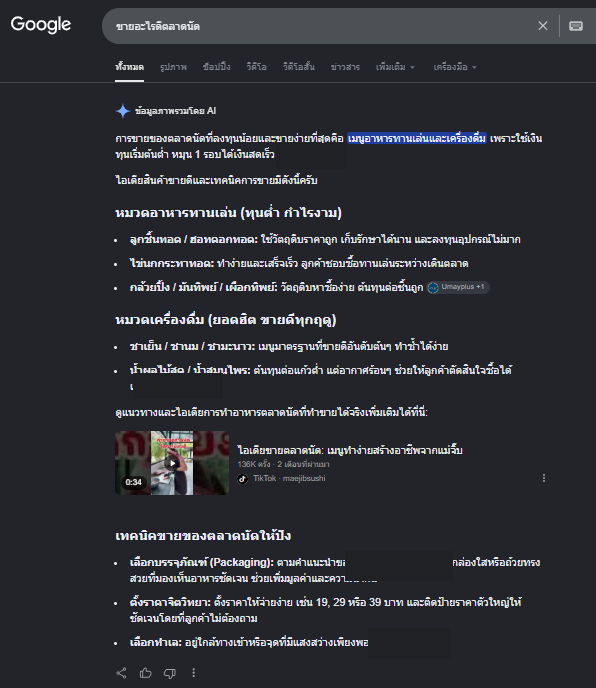
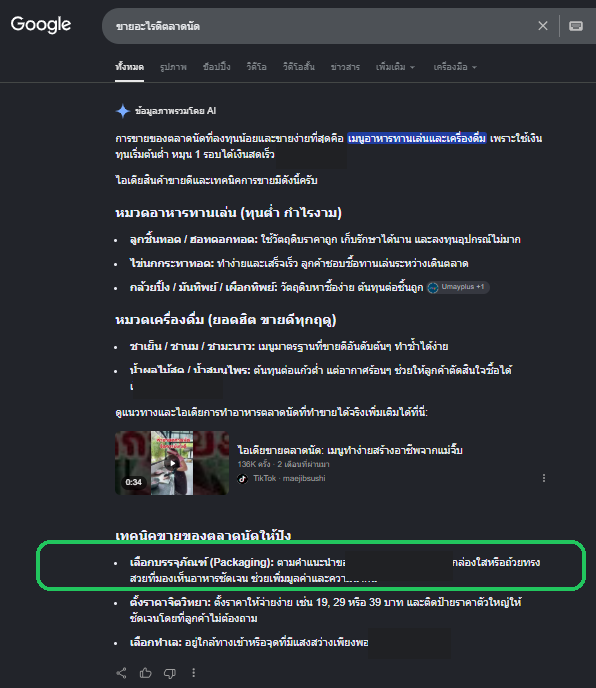
Restructure AI Overview post: real H3s, product-recommendation callout, LINE QR CTA
- Convert the 9-point list to real <h3> headings with fuller explanations
  (was styled cards with a <p>, not semantic headings)
- Add a prominent H4 callout tied to a new green highlight circle drawn on
  the case-study screenshot, pointing directly at the product recommendation
- Add a mid-article CTA block: 9-year experience framing, a real scannable
  LINE QR code (verified round-trip via OpenCV decode) plus phone number
- Remove the "(ไม่เปิดเผยชื่อแบรนด์)" parenthetical from excerpt/meta/summary
  now that anonymization is just handled by writing "ลูกค้ารายหนึ่ง" directly

Changed region(s): [[0.0604, 0.7631, 0.9664, 0.8547], [0.0906, 0.8547, 0.9664, 0.8852], [0.9664, 0.7936, 0.9966, 0.8547]]

diff --git a/src/components/BlogArticleBody.tsx b/src/components/BlogArticleBody.tsx
@@ -8390,40 +8390,40 @@ function SpaMarketingPlanArticle({ post }: { post: BlogPost }) {
 function WhatIsAiOverviewArticle({ post }: { post: BlogPost }) {
   const nineSteps = [
     {
-      title: 'ตอบคำถามหลักให้จบในย่อหน้าแรก',
-      body: 'Google มักดึงคำตอบจากส่วนที่ตอบตรงประเด็นที่สุดก่อนเสมอ ไม่ใช่ย่อหน้าเกริ่นนำหรือคำโปรยยาวๆ',
+      title: '1. ตอบคำถามหลักให้จบในย่อหน้าแรก',
+      body: 'Google มักดึงคำตอบจากส่วนที่ตอบตรงประเด็นที่สุดก่อนเสมอ ไม่ใช่ย่อหน้าเกริ่นนำหรือคำโปรยยาวๆ ควรเขียนคำตอบตรงๆ ภายใน 40-60 คำแรกของแต่ละหัวข้อ ก่อนค่อยขยายความในย่อหน้าถัดไป',
     },
     {
-      title: 'เขียนหัวข้อ H2/H3 เป็นคำถามที่คนค้นจริง',
-      body: 'ไม่ใช่หัวข้อทางการตลาด เช่น "ทำไมต้องเลือกเรา" แต่เป็น "ขายอะไรดี" "ราคาเท่าไหร่" "ต่างกันอย่างไร"',
+      title: '2. เขียนหัวข้อ H2/H3 เป็นคำถามที่คนค้นจริง',
+      body: 'ไม่ใช่หัวข้อทางการตลาดที่เขียนเพื่อขายของ เช่น "ทำไมต้องเลือกเรา" แต่ควรเป็นคำถามที่คนพิมพ์ในช่องค้นหาจริงๆ เช่น "ขายอะไรดี" "ราคาเท่าไหร่" "ต่างกันอย่างไร" "เลือกแบบไหนดี"',
     },
     {
-      title: 'แตกหลาย Sub-intent ไว้ในหน้าเดียว',
-      body: 'ยิ่งบทความมีหลายจุดให้ AI หยิบไปใช้ ยิ่งมีโอกาสถูกดึงไปตอบหลายคำถามจากบทความเดียวกัน',
+      title: '3. แตกหลาย Sub-intent ไว้ในหน้าเดียว',
+      body: 'ยิ่งบทความมีหลายจุดที่ตอบคำถามต่างมุมกัน เช่น ของกิน เครื่องดื่ม เทคนิคขาย ราคา ทำเล ยิ่งมีโอกาสถูก AI หยิบไปตอบหลายคำถามจากบทความเดียวกัน แทนที่จะตอบได้แค่คำถามเดียว',
     },
     {
-      title: 'ใช้ Entity และตัวเลขที่เจาะจง',
-      body: '"ลูกชิ้นทอด ต้นทุนหน่วยละ 7-10 บาท" มีโอกาสถูกดึงไปใช้มากกว่า "ของกินราคาถูก" ที่กว้างและคลุมเครือ',
+      title: '4. ใช้ Entity และตัวเลขที่เจาะจง',
+      body: 'เช่น "ลูกชิ้นทอด ต้นทุนหน่วยละ 7-10 บาท" มีโอกาสถูก AI หยิบไปใช้มากกว่า "ของกินราคาถูก" ที่กว้างและคลุมเครือ ยิ่งเจาะจงเท่าไหร่ ยิ่งมีข้อมูลให้ AI นำไปอ้างอิงต่อได้มากเท่านั้น',
     },
     {
-      title: 'เขียนแต่ละ Section ให้ยืนได้ด้วยตัวเอง',
-      body: 'ถ้า AI ตัดเอาแค่ Section เดียวไปตอบ มันควรเข้าใจได้ทันทีโดยไม่ต้องอ่านส่วนอื่นของบทความประกอบ',
+      title: '5. เขียนแต่ละ Section ให้ยืนได้ด้วยตัวเอง',
+      body: 'ทดสอบด้วยคำถามว่า "ถ้า AI ตัดเอาแค่ Section นี้ไปตอบ มันยังเข้าใจได้ไหมโดยไม่ต้องอ่านส่วนอื่นประกอบ" ถ้าคำตอบคือไม่ได้ ต้องเขียนใหม่ให้มีบริบทครบในตัวเอง',
     },
     {
-      title: 'ใส่ FAQ Schema และ Article Schema ให้ครบ',
-      body: 'ช่วยให้ Google เข้าใจโครงสร้างเนื้อหาได้ชัดเจนขึ้น และเพิ่มโอกาสถูกเลือกไปแสดงในรูปแบบคำถาม-คำตอบ',
+      title: '6. ใส่ FAQ Schema และ Article Schema ให้ครบ',
+      body: 'Schema ช่วยให้ Google เข้าใจโครงสร้างเนื้อหาได้ชัดเจนขึ้น และเพิ่มโอกาสถูกเลือกไปแสดงในรูปแบบคำถาม-คำตอบ ควรมีอย่างน้อย FAQPage, Article หรือ BlogPosting และ BreadcrumbList',
     },
     {
-      title: 'เชื่อมปัญหาไปสู่สินค้าอย่างมีเหตุผล',
-      body: 'ไม่ใช่โยน CTA ไว้ท้ายบทความ แต่อธิบายปัญหาก่อน แล้วค่อยเชื่อมว่าสินค้าตอบโจทย์ปัญหานั้นอย่างไร',
+      title: '7. เชื่อมปัญหาไปสู่สินค้าอย่างมีเหตุผล',
+      body: 'ไม่ใช่โยน CTA ไว้ท้ายบทความเฉยๆ แต่ต้องอธิบายปัญหาที่เกิดขึ้นจริงก่อน แล้วค่อยเชื่อมว่าสินค้าหรือบริการของแบรนด์ตอบโจทย์ปัญหานั้นอย่างไร ให้สินค้ากลายเป็นคำตอบที่สมเหตุสมผล ไม่ใช่โฆษณาที่แทรกเข้ามา',
     },
     {
-      title: 'ใส่ Internal Link เชื่อม Content ไปหาหมวดสินค้าจริง',
-      body: 'ทำให้ความสัมพันธ์ระหว่าง Content กับ Product ชัดเจนขึ้น ไม่ต้องให้ Google เดาเอง',
+      title: '8. ใส่ Internal Link เชื่อม Content ไปหาหมวดสินค้าจริง',
+      body: 'ทำให้ความสัมพันธ์ระหว่าง Content กับ Product ชัดเจนขึ้นในสายตา Google โดยไม่ต้องให้ Google เดาเอง ควรลิงก์จากบทความไปหาหน้าหมวดหมู่หรือหน้าสินค้าที่เกี่ยวข้องโดยตรง',
     },
     {
-      title: 'ห้ามใส่สถิติที่ไม่มีแหล่งอ้างอิง',
-      body: 'ตัวเลขหรือคำกล่าวอ้างที่ไม่มีที่มา ทำลายความน่าเชื่อถือ — ความแม่นยำคือสิ่งที่ทำให้ AI เลือกอ้างอิงซ้ำในระยะยาว',
+      title: '9. ห้ามใส่สถิติที่ไม่มีแหล่งอ้างอิง',
+      body: 'ตัวเลขหรือคำกล่าวอ้างที่ไม่มีที่มา เช่น "งานวิจัยพบว่า" หรือ "ผู้ประกอบการจำนวนมากยืนยัน" โดยไม่มีแหล่งอ้างอิงจริง ทำลายความน่าเชื่อถือ — ความแม่นยำคือสิ่งที่ทำให้ AI เลือกอ้างอิงเนื้อหาซ้ำในระยะยาว',
     },
   ]
 
@@ -8454,25 +8454,53 @@ function WhatIsAiOverviewArticle({ post }: { post: BlogPost }) {
 
       <ArticleSection title="9 ข้อ ทำอย่างไรให้ติด AI Overview">
         <P>เรียงจากพื้นฐานของการเขียนเนื้อหาไปจนถึงการเชื่อมโยงสู่สินค้า — ทำได้ครบทุกข้อไม่รับประกันติด แต่เพิ่มโอกาสได้จริง</P>
-        <div className="grid gap-3">
-          {nineSteps.map((step, index) => (
-            <div key={step.title} className="flex gap-3 rounded-xl border border-neutral-200 bg-white p-4">
-              <span className="flex h-8 w-8 shrink-0 items-center justify-center rounded-lg bg-teal-100 text-xs font-bold text-teal-800">
-                {String(index + 1).padStart(2, '0')}
-              </span>
-              <div>
-                <p className="font-semibold text-neutral-950">{step.title}</p>
-                <p className="thai-readable mt-1 text-sm leading-6 text-neutral-600">{step.body}</p>
-              </div>
-            </div>
+        <div className="grid gap-6">
+          {nineSteps.map((step) => (
+            <ArticleSubSection key={step.title} title={step.title}>
+              <P>{step.body}</P>
+            </ArticleSubSection>
           ))}
         </div>
       </ArticleSection>
 
+      <div className="rounded-xl bg-teal-950 p-6 sm:p-8">
+        <p className="text-xs font-semibold uppercase tracking-widest text-teal-300">บริการจาก Saralak Search</p>
+        <h3 className="mt-2 text-xl font-semibold leading-snug text-white sm:text-2xl">
+          ทำ SEO, AEO และ GEO มากับมือ ด้วยประสบการณ์ด้าน Search กว่า 9 ปี
+        </h3>
+        <p className="thai-readable mt-3 text-sm leading-7 text-teal-100 sm:text-base">
+          อยากรู้ว่าธุรกิจของคุณมีโอกาสติด AI Overview แบบเคสด้านล่างนี้ไหม สแกน QR หรือทักมาคุยได้เลย ไม่มีค่าใช้จ่าย
+        </p>
+        <div className="mt-5 flex flex-col items-center gap-5 sm:flex-row">
+          <img
+            src="/image/icon/line-qr-sariahihi.png"
+            alt="สแกน QR Code เพื่อแอด LINE ปรึกษา Saralak Search"
+            width="112"
+            height="112"
+            className="h-28 w-28 shrink-0 rounded-lg bg-white p-2"
+          />
+          <div className="flex flex-col gap-3 sm:flex-row">
+            <a
+              href={brand.lineUrl}
+              target="_blank"
+              rel="noopener noreferrer"
+              className="inline-flex items-center justify-center rounded-lg bg-white px-5 py-3 text-sm font-semibold text-teal-800 transition hover:bg-teal-50"
+            >
+              ทักผ่าน LINE: {brand.line.replace('LINE: ', '')}
+            </a>
+            <a
+              href={brand.phoneUrl}
+              className="inline-flex items-center justify-center rounded-lg border border-teal-600 px-5 py-3 text-sm font-semibold text-white transition hover:bg-teal-700"
+            >
+              โทร {brand.phone.replace(/(\d{3})(\d{3})(\d{4})/, '$1-$2-$3')}
+            </a>
+          </div>
+        </div>
+      </div>
+
       <ArticleSection title="Case Study จริง: ลูกค้ารายหนึ่งติด AI Overview บนคำค้นทั่วไป">
         <P>
-          นี่คือตัวอย่างจริงจากลูกค้ารายหนึ่งของ Saralak Search (ไม่เปิดเผยชื่อแบรนด์ตามข้อตกลงความเป็นส่วนตัว)
-          ที่ยืนยันหลักการด้านบนได้ชัดที่สุด — คำค้น{' '}
+          นี่คือตัวอย่างจริงจากลูกค้ารายหนึ่งของ Saralak Search ที่ยืนยันหลักการด้านบนได้ชัดที่สุด — คำค้น{' '}
           <strong>"ขายอะไรดีตลาดนัด"</strong> (ยอดค้นหาประมาณ 1,600 ครั้งต่อเดือน) เป็นคำค้นกว้างๆ
           ที่ไม่มีคำว่าแบรนด์ บรรจุภัณฑ์ หรือ Packaging ปนอยู่เลย คนที่ค้นคำนี้กำลังมองหาไอเดียทำธุรกิจ
           ยังไม่รู้ด้วยซ้ำว่าจะขายอะไร
@@ -8483,9 +8511,19 @@ function WhatIsAiOverviewArticle({ post }: { post: BlogPost }) {
         </P>
         <ArticleImage
           src="/proof/ai-overview-flea-market-example.png"
-          alt="ภาพจริงจาก Google AI Overview แสดงผลการค้นหา ขายอะไรดีตลาดนัด (ปิดบังชื่อแบรนด์ลูกค้า)"
-          caption='ภาพจริงจาก Google: AI Overview สำหรับคำค้น "ขายอะไรดีตลาดนัด" อ้างอิงบทความของลูกค้าและแนะนำ Packaging เป็นส่วนหนึ่งของคำตอบ (ชื่อแบรนด์ถูกปิดบังไว้)'
+          alt="ภาพจริงจาก Google AI Overview แสดงผลการค้นหา ขายอะไรดีตลาดนัด วงกลมสีเขียวชี้จุดที่ AI แนะนำ Packaging ของลูกค้า (ปิดบังชื่อแบรนด์)"
+          caption='ภาพจริงจาก Google: AI Overview สำหรับคำค้น "ขายอะไรดีตลาดนัด" — จุดที่วงสีเขียวไว้คือส่วนที่ Google แนะนำ Packaging ของลูกค้าเป็นส่วนหนึ่งของคำตอบ (ชื่อแบรนด์ถูกปิดบังไว้)'
         />
+        <div className="rounded-xl border-2 border-emerald-500 bg-emerald-50 px-5 py-5">
+          <h4 className="text-lg font-bold text-emerald-900 sm:text-xl">
+            ไม่ใช่แค่ตอบคำถาม — AI Overview ยังแนะนำ "สินค้า" ของลูกค้าเราด้วย
+          </h4>
+          <p className="thai-readable mt-2 text-sm leading-6 text-emerald-950 sm:text-base">
+            ทั้งที่ "ขายอะไรดีตลาดนัด" ไม่ใช่คีย์เวิร์ดที่มีเจตนาซื้อสินค้าเลยแม้แต่น้อย (ไม่ใช่ Commercial Keyword)
+            แต่ Google ยังดึงคำแนะนำเรื่องบรรจุภัณฑ์ของแบรนด์เข้าไปอยู่ในคำตอบ — ตรงจุดที่วงสีเขียวไว้ในภาพด้านบน
+            นี่คือสิ่งที่ทำให้ GEO ต่างจาก SEO ทั่วไป
+          </p>
+        </div>
         <p className="text-sm font-semibold uppercase tracking-wide text-neutral-500">สิ่งที่เกิดขึ้นจริง</p>
         <div className="grid gap-2">
           {[

diff --git a/src/content/blog.ts b/src/content/blog.ts
@@ -1788,7 +1788,7 @@ export const blogPosts: BlogPost[] = [
     slug: 'what-is-ai-overview',
     category: 'AEO',
     excerpt:
-      'AI Overview คือกล่องคำตอบที่ Google สร้างด้วย AI แสดงเหนือผลการค้นหาทั้งหมด บทความนี้สรุป 9 ข้อทำอย่างไรให้ติด AI Overview พร้อม Case Study จริง (ไม่เปิดเผยชื่อแบรนด์) ที่ติดบนคำค้นทั่วไปอย่าง "ขายอะไรดีตลาดนัด" แล้วสินค้าของแบรนด์ยังถูก AI แนะนำด้วย',
+      'AI Overview คือกล่องคำตอบที่ Google สร้างด้วย AI แสดงเหนือผลการค้นหาทั้งหมด บทความนี้สรุป 9 ข้อทำอย่างไรให้ติด AI Overview พร้อม Case Study จริง ที่ติดบนคำค้นทั่วไปอย่าง "ขายอะไรดีตลาดนัด" แล้วสินค้าของแบรนด์ยังถูก AI แนะนำด้วย',
     readingTime: '12 min read',
     publishedDate: '2026-09-15',
     lastModifiedDate: '2026-09-16',
@@ -1798,11 +1798,11 @@ export const blogPosts: BlogPost[] = [
     ogImage: '/proof/ai-overview-flea-market-example.png',
     metaTitle: 'AI Overview คือ? 9 วิธีติด AI Overview | Saralak Search',
     metaDescription:
-      'AI Overview คืออะไร และวิธีทำให้เว็บไซต์ติด AI Overview 9 ข้อ พร้อม Case Study จริงจากลูกค้ารายหนึ่ง (ไม่เปิดเผยชื่อแบรนด์) ที่ติดบนคำค้นทั่วไป "ขายอะไรดีตลาดนัด" (ยอดเสิร์ช 1,600/เดือน) แล้วสินค้าของแบรนด์ถูก AI แนะนำด้วย',
+      'AI Overview คืออะไร และวิธีทำให้เว็บไซต์ติด AI Overview 9 ข้อ พร้อม Case Study จริงจากลูกค้ารายหนึ่ง ที่ติดบนคำค้นทั่วไป "ขายอะไรดีตลาดนัด" (ยอดเสิร์ช 1,600/เดือน) แล้วสินค้าของแบรนด์ถูก AI แนะนำด้วย',
     aiSummary: [
       'AI Overview คือกล่องคำตอบที่ Google สร้างด้วย AI แสดงเหนือลิงก์เว็บไซต์ทั้งหมดในหน้าผลการค้นหา',
       'คำค้นทั่วไปแบบ Non-brand ก็ติด AI Overview ได้ และสามารถทำให้สินค้าของแบรนด์ถูกแนะนำในคำตอบนั้นได้ ไม่จำเป็นต้องเป็นคำที่มีแบรนด์อยู่แล้ว',
-      'Case Study จริง (ไม่เปิดเผยชื่อแบรนด์): ลูกค้ารายหนึ่งของ Saralak Search ติด AI Overview บนคำค้น "ขายอะไรดีตลาดนัด" (ยอดเสิร์ช 1,600/เดือน) และ Google แนะนำ Packaging ของแบรนด์เป็นส่วนหนึ่งของคำตอบด้วย',
+      'Case Study จริง: ลูกค้ารายหนึ่งของ Saralak Search ติด AI Overview บนคำค้น "ขายอะไรดีตลาดนัด" (ยอดเสิร์ช 1,600/เดือน) และ Google แนะนำ Packaging ของแบรนด์เป็นส่วนหนึ่งของคำตอบด้วย',
       '9 ข้อทำ AI Overview ครอบคลุมตั้งแต่การตอบคำถามให้จบ การใช้ Entity และตัวเลขที่เจาะจง ไปจนถึงการเชื่อมปัญหาสู่สินค้าอย่างมีเหตุผล',
     ],
     faqs: aiOverviewFaqs,
